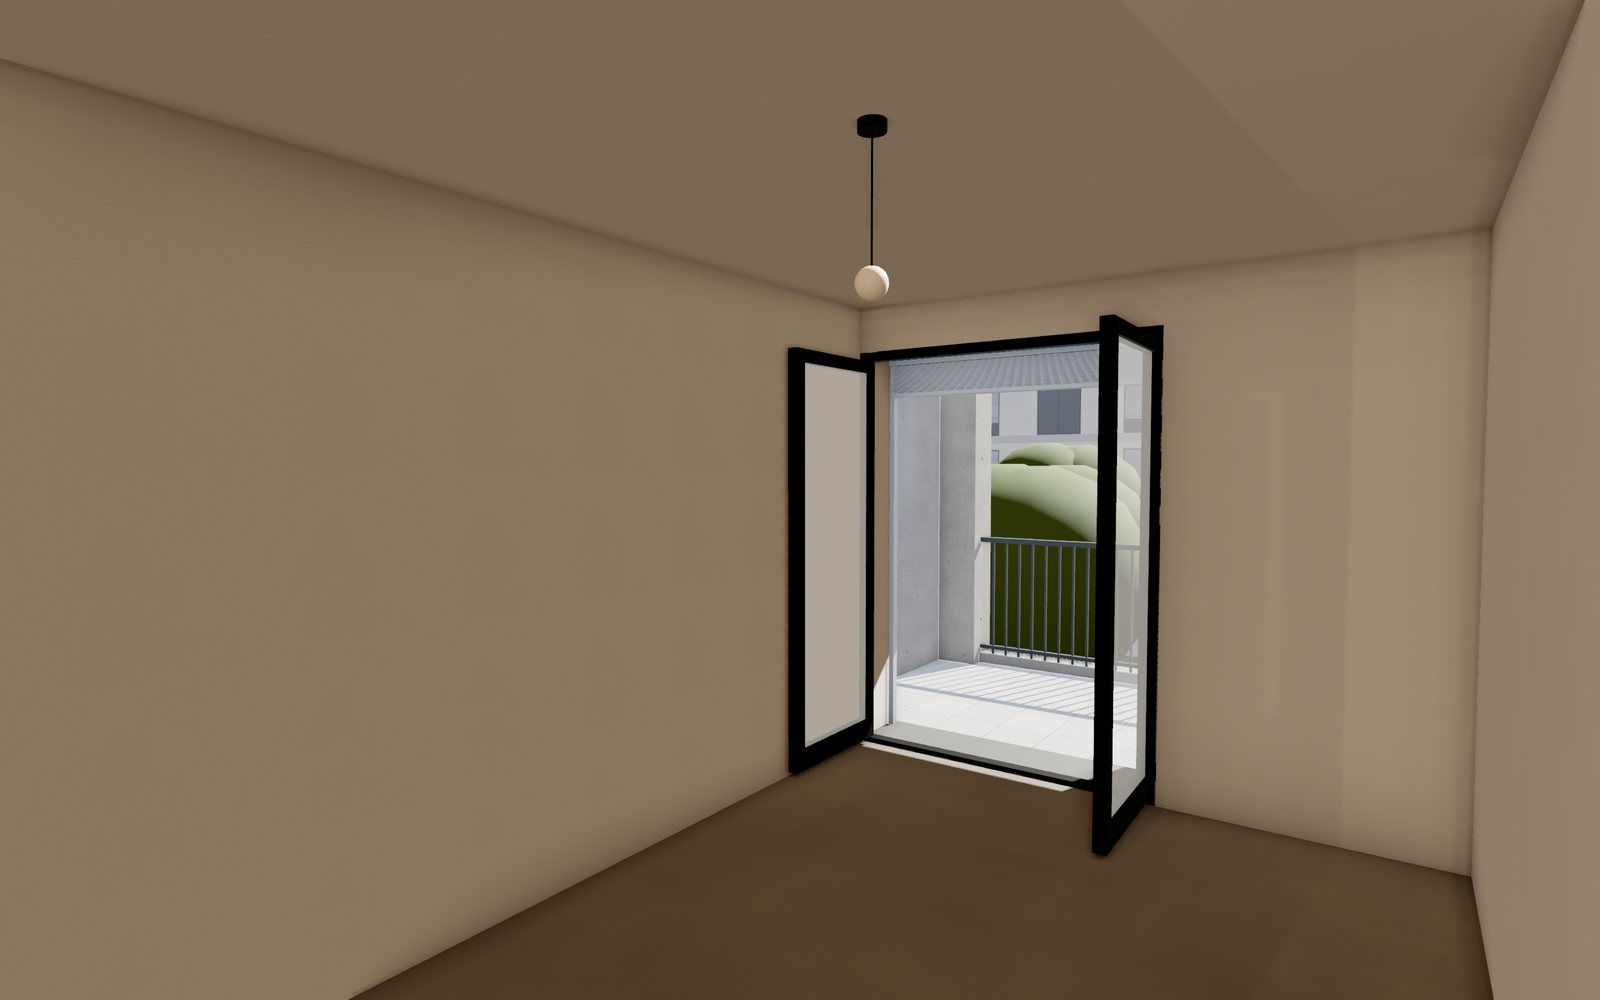
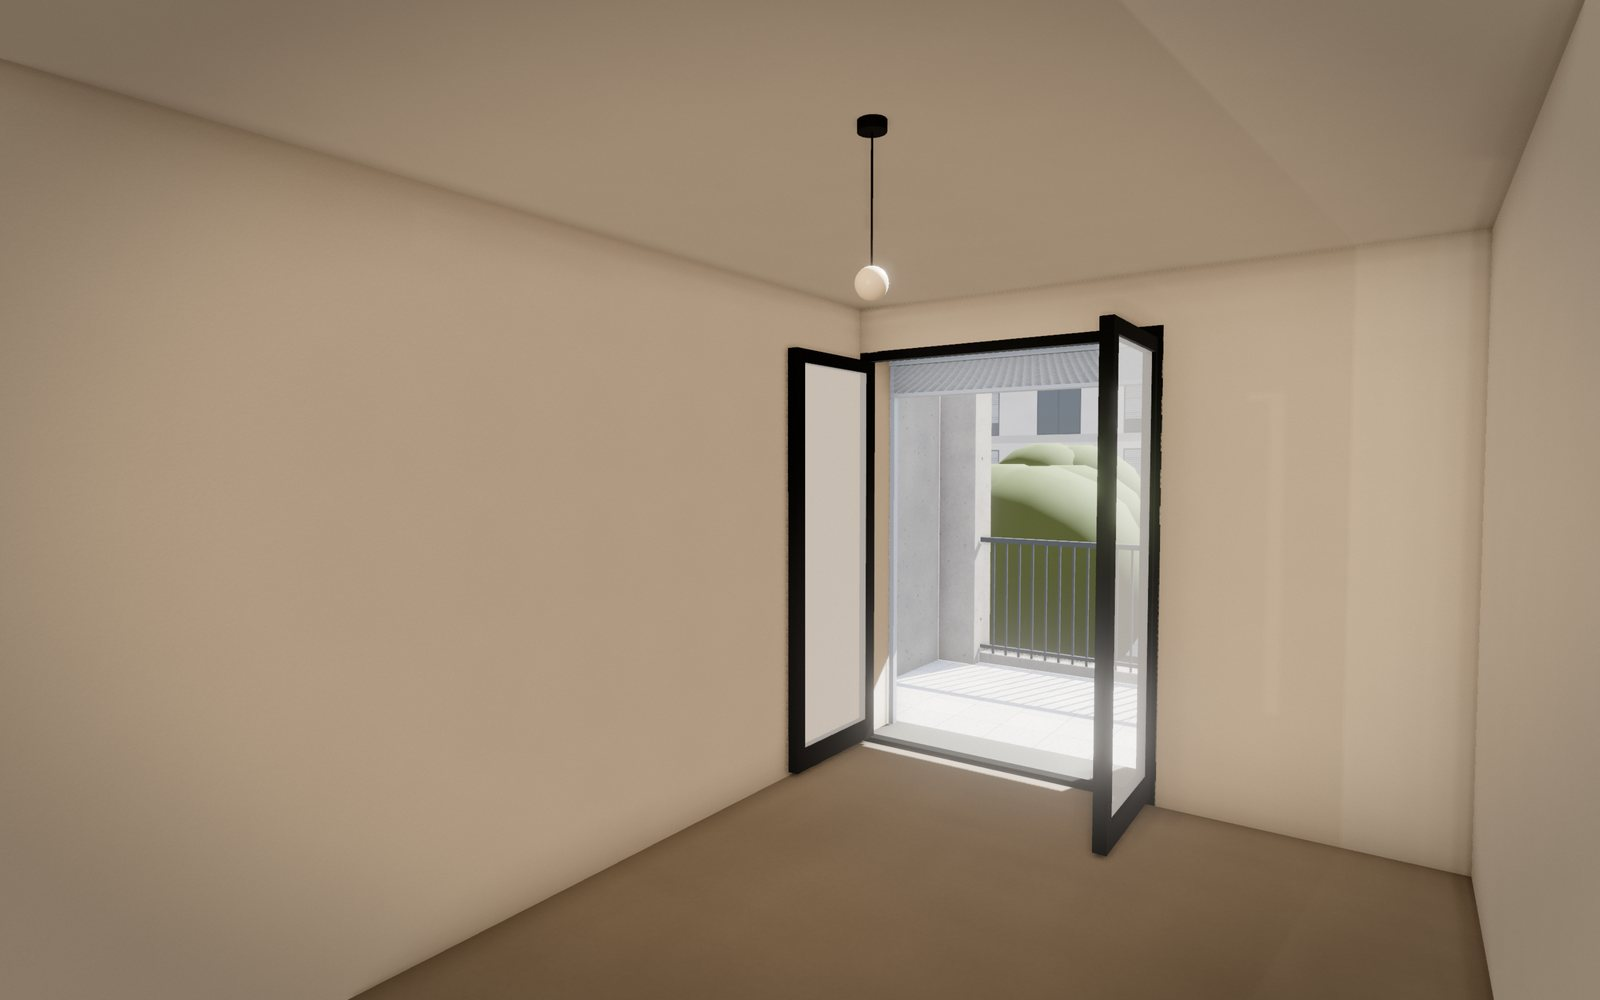
Visite plus lumineuse en mode auto, galerie régénérée
- Exposition relevée dans toutes les pièces, lampes du mode auto plus
  fortes, salle de bain et WC tempérés
- 20 photos de la galerie recalculées avec le traitement photo

diff --git a/visite/index.html b/visite/index.html
@@ -2528,7 +2528,7 @@ function updateSun() {
   const night = sa < 0.06;
   lamps.forEach(l => {
     const on = S.lights === 'on' || (S.lights === 'auto' && (night || l.userData.blind));
-    l.intensity = on ? (night ? 7 : 1.4) : 0; l.castShadow = on; l.userData.bulb.material = on ? M.bulbOn : M.bulb;
+    l.intensity = on ? (night ? 10 : 2.4) : 0; l.castShadow = on; l.userData.bulb.material = on ? M.bulbOn : M.bulb;
   });
   const ledOn = S.lights !== 'off' && S.furniture;
   kitchenLeds.forEach(l => { l.intensity = ledOn ? 5 : 0; l.userData.strip.material = ledOn ? M.bulbOn : M.bulb; l.userData.strip.visible = S.furniture; });
@@ -2563,7 +2563,7 @@ const PASSAGES = [
 ];
 const probe = { cache: {}, stamp: 1, queue: [], rt: null, cam: null, pmrem: null, timer: 0 };
 const ambient = new THREE.LightProbe(); ambient.intensity = 0; scene.add(ambient);
-const REFL_K = 0.25, K_OUT = 1.25, EXP_KEY = 0.135, K_REF = 3.4;
+const REFL_K = 0.25, K_OUT = 1.45, EXP_KEY = 0.19, K_REF = 4.4;
 function invalidateProbes() {
   probe.stamp++; clearTimeout(probe.timer);
   probe.timer = setTimeout(() => { if (S.mode === 'walk') queueProbes(); }, 350);
@@ -2617,7 +2617,7 @@ function captureProbe(id) {
   scene.environment = save.env; scene.environmentIntensity = save.ei; ambient.sh.copy(save.sh); ambient.intensity = save.ai;
   // posemètre : luminance moyenne de l'éclairage reçu (terme constant des harmoniques)
   let k = { sejour: 4, chambre: 4.5, entree: 2.2, sdb: 2, wc: 2 }[id] || 3;
-  if (ok && sh) { const c0 = sh.coefficients[0], avg = 0.282095 * (0.2126 * c0.x + 0.7152 * c0.y + 0.0722 * c0.z); if (avg > 1e-5) k = clamp(EXP_KEY / avg, 0.2, 12); }
+  if (ok && sh) { const c0 = sh.coefficients[0], avg = 0.282095 * (0.2126 * c0.x + 0.7152 * c0.y + 0.0722 * c0.z); if (avg > 1e-5) k = clamp(EXP_KEY * ({ sdb: 0.6, wc: 0.6, entree: 0.8 }[id] || 1) / avg, 0.2, 12); }
   if (probe.cache[id]) probe.cache[id].env.dispose();
   probe.cache[id] = { env, sh: ok ? sh : null, k: Math.sqrt(k * K_REF), stamp: probe.stamp };
 }
